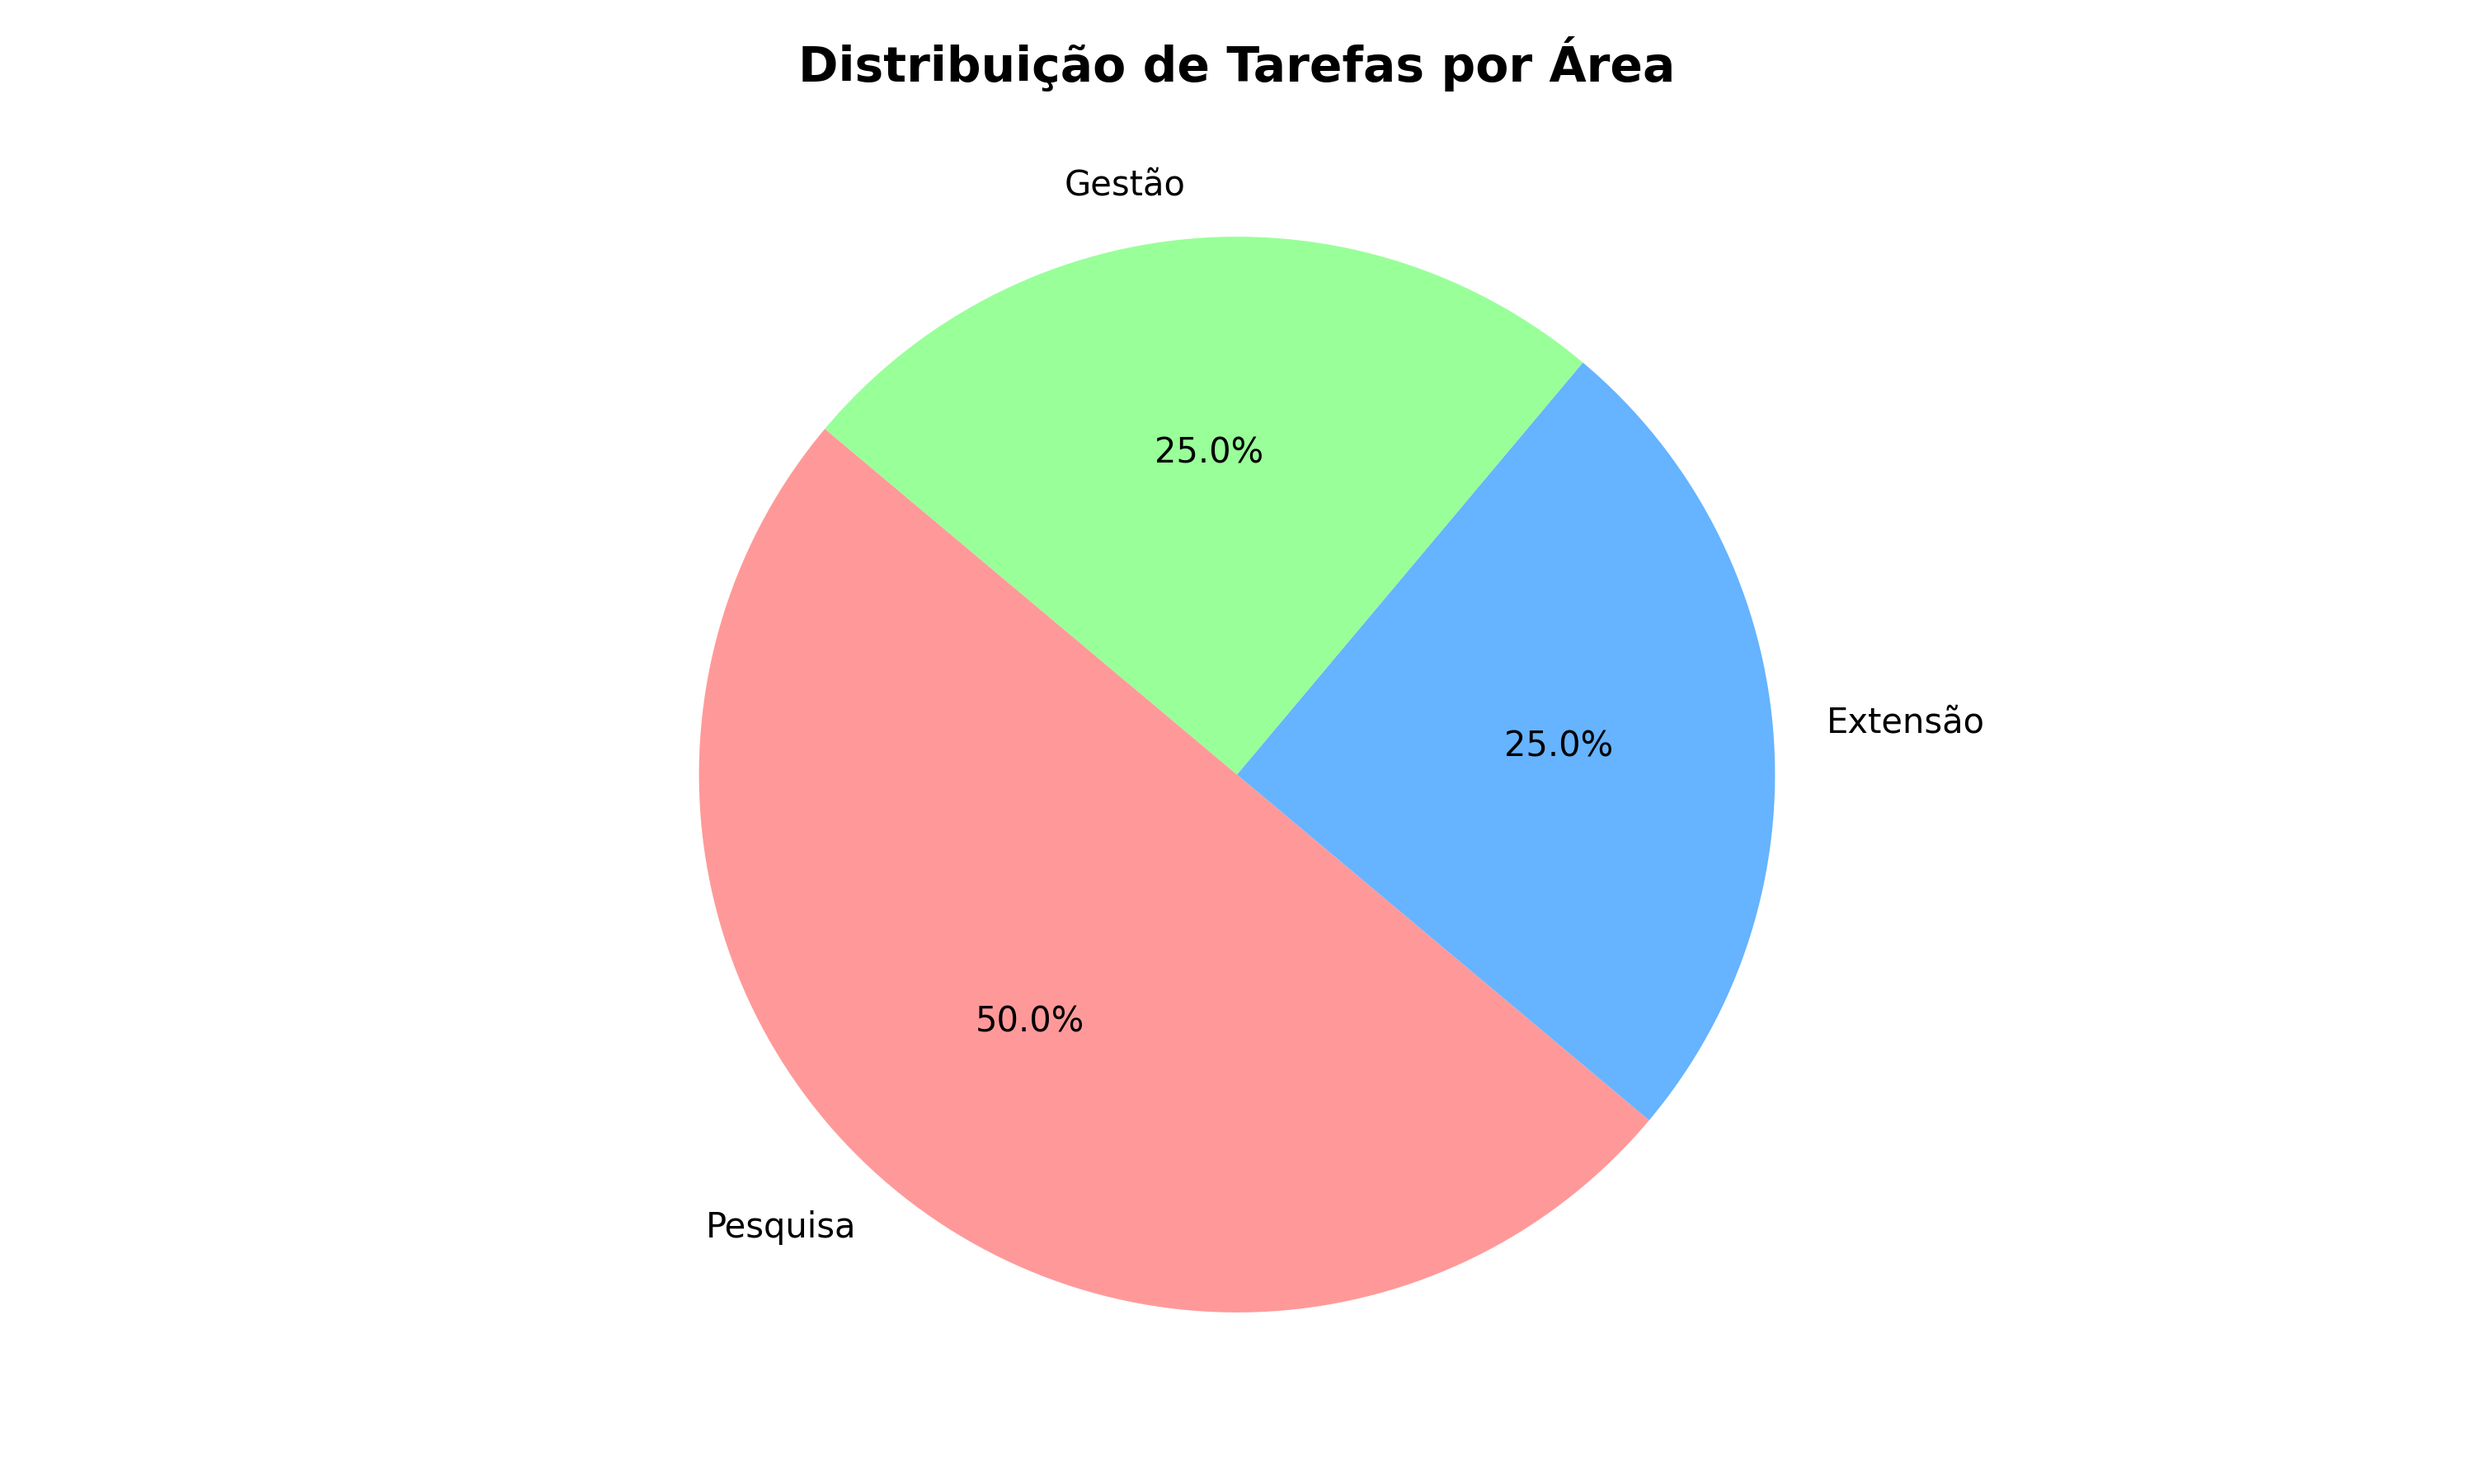
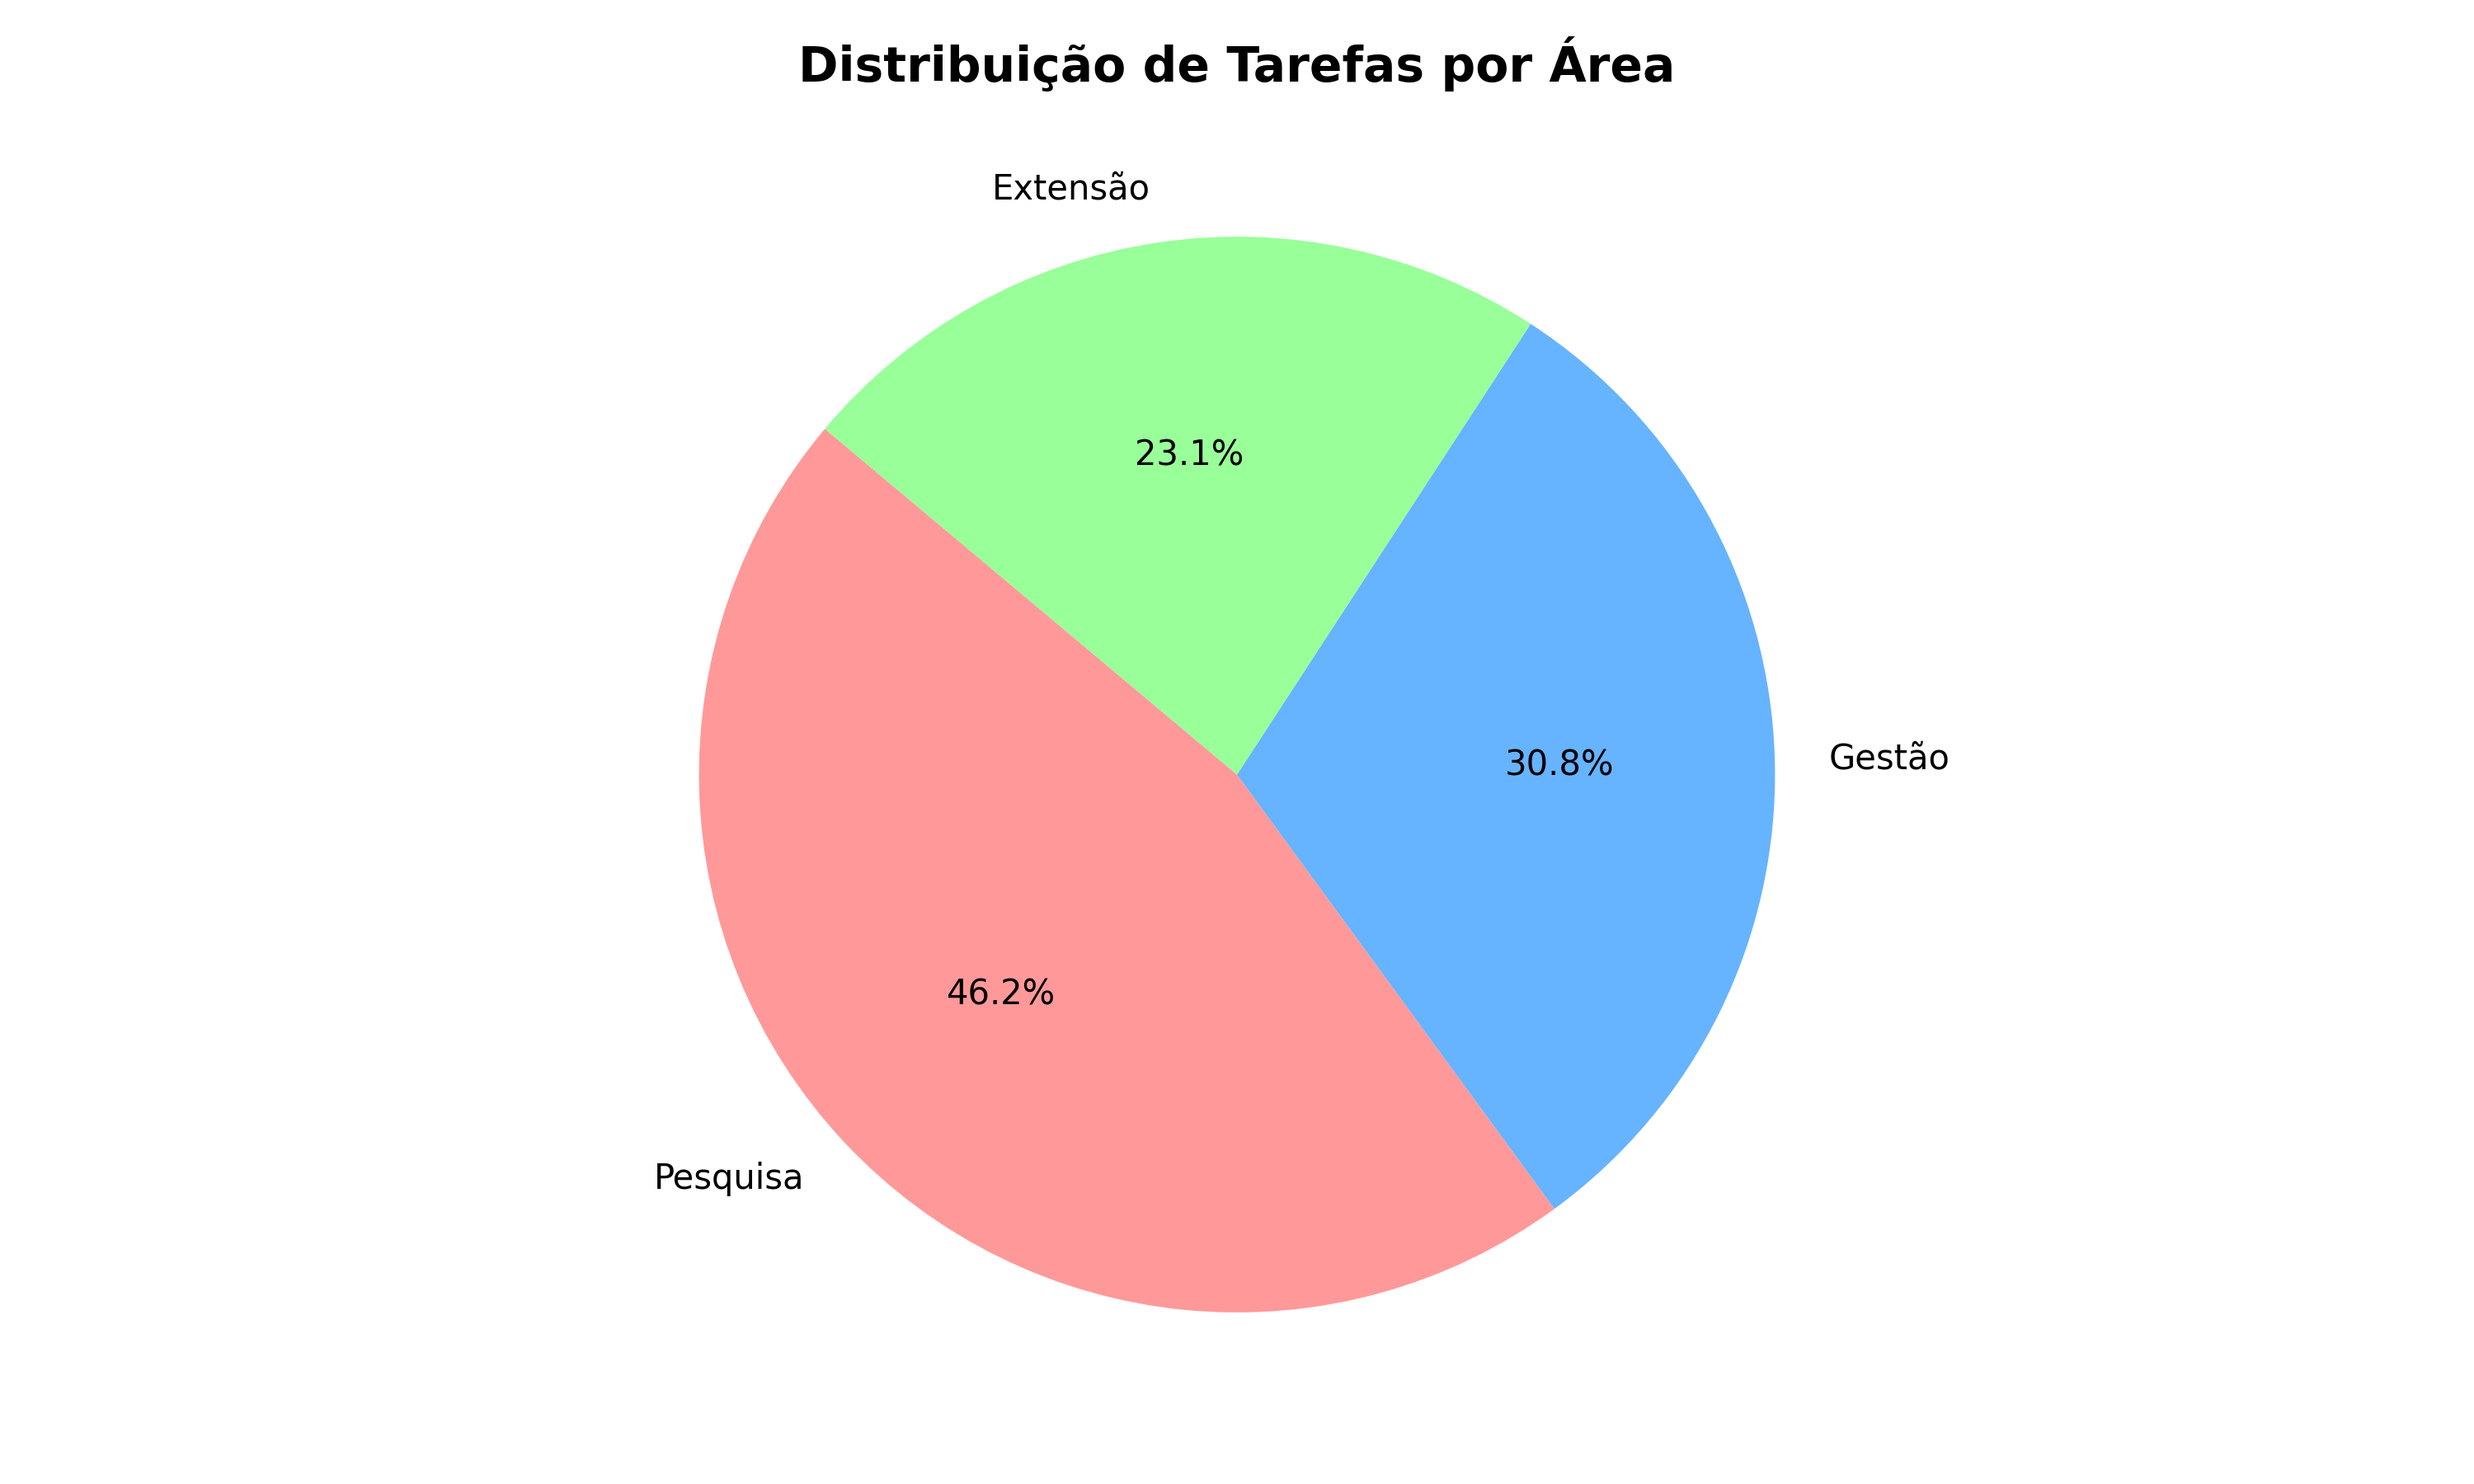
docs: record new activity for Receita Federal products

diff --git a/docs/atividades/2026-03-atividades.md b/docs/atividades/2026-03-atividades.md
@@ -10,15 +10,22 @@ Este documento registra as atividades concluídas durante o mês para fins de es
 ## ✅ Atividades por Área
 
 ### 🔬 Pesquisa
+- [#12](https://github.com/ifesserra-lab/diretoria/issues/12) - [TAREFA]: Reunião com o mestrado de automação (convite Gustavo Maia) (✅)
+- [#11](https://github.com/ifesserra-lab/diretoria/issues/11) - [TAREFA]: Acompanhar o cadastro do SITEC dos mestrados (✅)
+- [#10](https://github.com/ifesserra-lab/diretoria/issues/10) - [TAREFA]: Solicitar calendários aos responsáveis pela pós-graduação (✅)
+- [#9](https://github.com/ifesserra-lab/diretoria/issues/9) - [TAREFA]: Solicitar ao procurador para tornar públicos os dados de pesquisa e extensão (✅)
 - [#3](https://github.com/ifesserra-lab/diretoria/issues/3) - [TAREFA]: Alinhar com a CAP o novo calendário bimestral (⏳)
 - [#1](https://github.com/ifesserra-lab/diretoria/issues/1) - [TAREFA]: Agendar cronograma de reuniões com grupos de pesquisa (⏳)
+- [Atividade Ad-hoc] - Descrição de algo não planejado que foi executado.
 
 ### 🚀 Extensão
+- [#9](https://github.com/ifesserra-lab/diretoria/issues/9) - [TAREFA]: Solicitar ao procurador para tornar públicos os dados de pesquisa e extensão (✅)
 - [#8](https://github.com/ifesserra-lab/diretoria/issues/8) - [TAREFA]: Coletar interessados e obter TV box modificadas (⏳)
 - [#5](https://github.com/ifesserra-lab/diretoria/issues/5) - [TAREFA]: Propor a criação da CAEX (⏳)
 - [#2](https://github.com/ifesserra-lab/diretoria/issues/2) - [TAREFA]: Agendar reuniões com grupos de extensão (⏳)
 
 ### 🏛 Gestão (DPPGE)
+- [#13](https://github.com/ifesserra-lab/diretoria/issues/13) - [TAREFA]: Receber produtos da Receita Federal, categorizar e dividir entre as áreas do campus (⏳)
 - [#7](https://github.com/ifesserra-lab/diretoria/issues/7) - [TAREFA]: Organizar primeiro bate-papo informal com a comunidade (⏳)
 - [#6](https://github.com/ifesserra-lab/diretoria/issues/6) - [TAREFA]: Mapear tipos de projetos e fluxos de processos (⏳)
 - [#4](https://github.com/ifesserra-lab/diretoria/issues/4) - [TAREFA]: Formalizar comissão de aprovação de projetos (⏳)
